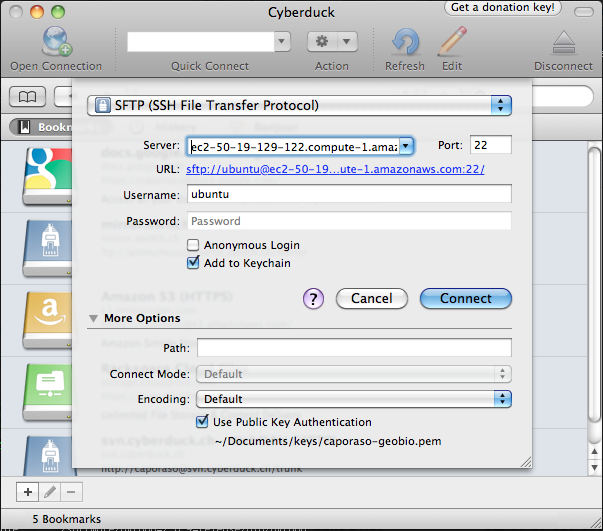
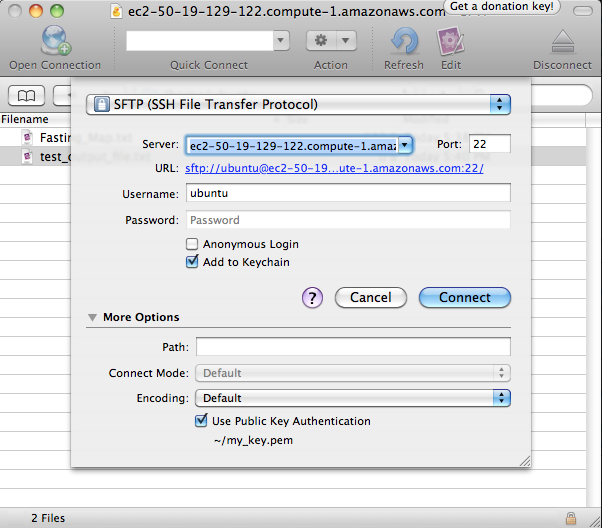
Moved the working with EC2 docs from the install page to a new tutorial as it was starting to get long.

diff --git a/doc/tutorials/working_with_ec2.rst b/doc/tutorials/working_with_ec2.rst
@@ -1,0 +1,124 @@
+.. _working_with_ec2:
+
+=============================================
+Working with QIIME on Amazon Web Services EC2
+=============================================
+
+This document covers general steps in working with QIIME on Amazon Web Services (AWS). You'll need your own AWS account to do this, and will need the AMI ID of the QIIME image that you want to run. You can find the latest QIIME AMI id on the `QIIME blog <http://blog.qiime.org>`_. These steps are also covered in the `QIIME EC2 video <http://www.youtube.com/watch?v=PEcSL_7D-jo>`_.
+
+
+Starting an EC2 instance
+========================
+
+A `tutorial on starting an EC2 instance can be found here <http://ged.msu.edu/angus/tutorials-2011/creating-an-ec2-instance.html>`_. You'll need to know the AMI ID that you want to start, and will need to have an Amazon Web Services account. The most recent QIIME AMI ID can be found on the `QIIME blog <http://blog.qiime.org>`_. Creating a Amazon Web Services account is covered in the linked tutorial.
+
+
+Connecting to your EC2 instance using ssh
+=========================================
+
+To connect to your EC2 instance with ssh you'll need your key file, the Public DNS entry for your running EC2 instance, and an ssh client. You should have created and downloaded a key file when creating your first EC2 instance. On OS X and Linux, be sure that the permissions are set to ``400`` on this file, or you won't be able to use it. If your key file is called ``/home/qiime/my_key.pem`` you can set the permissions with the command::
+
+	chmod 400 /home/qiime/my_key.pem
+
+You obtain the Public DNS entry from EC2 on a per instantiation basis - every time you Launch or Start and instance, you'll need to get this value again. See Figure 1 for where to find this information.
+
+	.. image:: ../images/public_dns_entry.png
+	   :width: 700
+	Figure 1: Identifying the Public DNS entry.
+
+If you're working on OS X or Linux, you already have an ssh client installed. If you're working on Windows, one free option is `PuTTY <http://www.chiark.greenend.org.uk/~sgtatham/putty/>`_. 
+
+To connect to your running EC2 instance using ssh from Linux or OS X you'll use a command like the following::
+
+	ssh -i PATH_TO_KEY ubuntu@PUBLIC_DNS_ENTRY
+	
+For example::
+
+	ssh -i  ~/my_key.pem ubuntu@ec2-50-19-129-122.compute-1.amazonaws.com
+
+
+
+Go `here for instructions on using PuTTY to connect to your running EC2 instance <http://ged.msu.edu/angus/tutorials-2011/logging-into-ec2-windows.html>`_.
+
+Getting data into and out of your QIIME EC2 instance
+====================================================
+
+After you've launched your EC2 instance you'll likely want to get data into it. After completing your analysis, you'll then want to get your data out. It's a good idea to pull your important data back out of your EC2 instance as soon as possible to avoid any issues with losing data if any Amazon systems go down, or if you accidentally terminate your instance. 
+
+You can get data into and out of your running EC2 instance with a graphical tool or via the command line. Which ever you find more convenient. Command line tools such as scp and sftp work fine for this. A good, free graphical tool for Windows and OS X is `Cyberduck <http://cyberduck.ch/>`_ -- this supports interacting with S3 buckets as well as EC2 instances (via sftp).
+
+Working with command line tools
+-------------------------------
+The primary tool for moving data into and out of your EC2 instance is ``scp``.
+
+To copy data into your EC2 instance you'll need to know that path to your key file, and the Public DNS entry for your EC2 instance (see Figure 1 for where to find the public DNS entry). 
+
+Your ``scp`` command will look like the following to transfer data into your EC2 instance::
+
+	scp -i PATH_TO_KEY PATH_TO_SOURCE_FILE ubuntu@PUBLIC_DNS_ENTRY:PATH_TO_DESTINATION_FILE
+
+To transfer a file out of your EC2 instance, your command will look like this::
+
+	scp -i PATH_TO_KEY ubuntu@PUBLIC_DNS_ENTRY:PATH_TO_SOURCE_FILE PATH_TO_DESTINATION_FILE
+
+Examples of each are::
+
+	scp -i  ~/my_key.pem ubuntu@ec2-50-19-129-122.compute-1.amazonaws.com:~/Fasting_Map.txt ~/code/Qiime/qiime_tutorial/Fasting_Map.txt
+	scp -i  ~/my_key.pem ~/code/Qiime/qiime_tutorial/Fasting_Map.txt ubuntu@ec2-50-19-129-122.compute-1.amazonaws.com:~/
+
+
+Working with Cyberduck
+----------------------
+
+ 1. Download and install `Cyberduck <http://cyberduck.ch/>`_. Installing should be straight-forward on OS X and Windows. 
+
+ 2. Launch Cyberduck by using your normal procedure for launching programs. You should see the Cyberduck window open. A new window or sheet will open. 
+
+ 3. To open a connection to your EC2 instance, click the 'Open Connection' icon on the top-left. Choose "SFTP (SSH File Transfer Protocol)" in the dropdown box (not Amazon Simple Storage Service!). In the ``Server`` field, enter the text from the ``Public DNS`` field associated with this instance (see Figure 1 for where to find this information). In the ``Username`` field enter ``ubuntu`` (exactly as written here). Do not enter a password. Expand the ``More Options`` section in the bottom of this window, and click the ``Use Public Key Authentication``. A dialog will open - navigate to where you've stored your key and select the key that is associated with this instance. After filling in the field, the window should look like that in Figure 2. Click ``Connect``.
+
+
+	.. image:: ../images/cyberduck_open_connection.png
+	Figure 2: Initiating a new connection.
+
+ 4. After connecting, you'll see a file browser on the remote system (Figure 3). If you've just created this instance you won't see any files listed (because you haven't put anything there yet). You can drag-and-drop files from your local system to your EC2 instance now (Figure 4). Those files will now be visible on the EC2 instance (Figure 5).
+
+	.. image:: ../images/cyberduck_opened_connection.png
+	Figure 3. Remote file browser.
+
+	.. image:: ../images/cyberduck_drag_and_drop_input_file.png
+	   :width: 700
+	Figure 4. Drag and drop a local file to the EC2 instance.
+
+	.. image:: ../images/cyberduck_view_file.png
+	Figure 5. Transferred file is visible on the EC2 instance.
+
+ 5. When you run commands on the remote system, new output files and directories will be created (Figure 6). To drag those back to your local system, first switch to the Cyberduck window and hit the refresh icon. You should then see the newly created files, and you can drag and drop them back to your local system (Figure 7).
+
+	.. image:: ../images/cyberduck_create_output_file.png
+	Figure 6. Create an output file on the EC2 instance.
+
+	.. image:: ../images/cyberduck_drag_and_drop_output_file.png
+	   :width: 700
+	Figure 7. Transfer file from the EC2 instance to the local system.
+
+
+Get help with Cyberduck `here <http://trac.cyberduck.ch/wiki/help/en>`_.
+
+
+Other options for getting data in and out of EC2 instances
+----------------------------------------------------------
+Other options for getting data into and out of your EC2 instance include installing `Dropbox <http://www.dropbox.com>`_ in your instance, and then putting files in your Dropbox folders on your local system and the EC2 instance; or using the ``wget`` command to pull data from URLs. An example of the latter might look like the following::
+
+	wget http://greengenes.lbl.gov/Download/Sequence_Data/Fasta_data_files/Caporaso_Reference_OTUs/gg_otus_4feb2011.tgz
+
+This will download the ``gg_otus_4feb2011.tgz`` file (the Greengenes reference OTUs) to your EC2 instance. You can find details on `wget here <http://www.gnu.org/software/wget/>`_.
+
+Stopping your EC2 instances
+===========================
+As long as your EC2 instances are running, you're paying for them by the hour. When you're temporarily done using your EC2 instance, you can stop it from the AWS Management Console by selecting the instance and choosing ``Instance Actions`` > ``Stop`` (see Figure 8). Note that you still pay a very small storage fee for stopped instances, so if you're permanently done with an instance you probably want to terminate it. You can restart a stopped EC2 instance by selecting that instance and choosing ``Instance Actions`` > ``Start``.
+
+	.. image:: ../images/stop_instance.png
+	   :width: 700
+	Figure 8. Stopping or pausing an EC2 instance.
+
+If you're permanently done with an EC2 instance, you can terminate it by selecting the instance and choosing ``Instance Actions`` > ``Terminate``. Once you've terminated an instance you can never get it back: all data in that instance, as well as any configuration changes you've made, etc, is lost forever, so be sure this is what you want to do.

diff --git a/doc/install/vm_ec2.rst b/doc/install/vm_ec2.rst
@@ -20,83 +20,6 @@ A video providing detailed instructions on booting and working with the QIIME EC
 
 A very nice tutorial on getting started with EC2 can be found `here <http://ged.msu.edu/angus/tutorials-2011/day1.html>`_. (Note that this is not maintained by the QIIME development group.)
 
-Getting data into and out of your QIIME EC2 instance
-====================================================
-
-After you've launched your EC2 instance you'll likely want to get data into it. After completing your analysis, you'll then want to get your data out. It's a good idea to pull your important data back out of your EC2 instance as soon as possible to avoid any issues with losing data if any Amazon systems go down, or if you accidentally terminate your instance. 
-
-You can get data into and out of your running EC2 instance with a graphical tool or via the command line. Which ever you find more convenient. Command line tools such as scp and sftp work fine for this. A good, free graphical tool for Windows and OS X is `Cyberduck <http://cyberduck.ch/>`_ -- this supports interacting with S3 buckets as well as EC2 instances (via sftp).
-
-Working with command line tools
--------------------------------
-The primary tool for moving data into and out of your EC2 instance is ``scp``.
-
-To copy data into your EC2 instance you'll need to know that path to your key file, and the Public DNS entry for your EC2 instance (see Figure 1 for where to find the public DNS entry). 
-
-	.. image:: ../images/public_dns_entry.png
-	   :width: 700
-	Figure 1: Identifying the Public DNS entry.
-
-Your ``scp`` command will look like the following to transfer data into your EC2 instance::
-
-	scp -i PATH_TO_KEY PATH_TO_SOURCE_FILE ubuntu@PUBLIC_DNS_ENTRY:PATH_TO_DESTINATION_FILE
-
-To transfer a file out of your EC2 instance, your command will look like this::
-
-	scp -i PATH_TO_KEY ubuntu@PUBLIC_DNS_ENTRY:PATH_TO_SOURCE_FILE PATH_TO_DESTINATION_FILE
-
-Examples of each are::
-
-	scp -i ~/Documents/keys/caporaso-geobio.pem ubuntu@ec2-50-19-129-122.compute-1.amazonaws.com:~/Fasting_Map.txt ~/code/Qiime/qiime_tutorial/Fasting_Map.txt
-	scp -i ~/Documents/keys/caporaso-geobio.pem ~/code/Qiime/qiime_tutorial/Fasting_Map.txt ubuntu@ec2-50-19-129-122.compute-1.amazonaws.com:~/
-
-
-Working with Cyberduck
-----------------------
-
- 1. Download and install `Cyberduck <http://cyberduck.ch/>`_. Installing should be straight-forward on OS X and Windows. 
-
- 2. Launch Cyberduck by using your normal procedure for launching programs. You should see the Cyberduck window open. A new window or sheet will open. 
-
- 3. To open a connection to your EC2 instance, click the 'Open Connection' icon on the top-left. Choose "SFTP (SSH File Transfer Protocol)" in the dropdown box (not Amazon Simple Storage Service!). In the ``Server`` field, enter the text from the ``Public DNS`` field associated with this instance (see Figure 1 for where to find this information). In the ``Username`` field enter ``ubuntu`` (exactly as written here). Do not enter a password. Expand the ``More Options`` section in the bottom of this window, and click the ``Use Public Key Authentication``. A dialog will open - navigate to where you've stored your key and select the key that is associated with this instance. After filling in the field, the window should look like that in Figure 2. Click ``Connect``.
-
-
-	.. image:: ../images/cyberduck_open_connection.png
-	Figure 2: Initiating a new connection.
-
- 4. After connecting, you'll see a file browser on the remote system (Figure 3). If you've just created this instance you won't see any files listed (because you haven't put anything there yet). You can drag-and-drop files from your local system to your EC2 instance now (Figure 4). Those files will now be visible on the EC2 instance (Figure 5).
-
-	.. image:: ../images/cyberduck_opened_connection.png
-	Figure 3. Remote file browser.
-
-	.. image:: ../images/cyberduck_drag_and_drop_input_file.png
-	   :width: 700
-	Figure 4. Drag and drop a local file to the EC2 instance.
-
-	.. image:: ../images/cyberduck_view_file.png
-	Figure 5. Transferred file is visible on the EC2 instance.
-
- 5. When you run commands on the remote system, new output files and directories will be created (Figure 6). To drag those back to your local system, first switch to the Cyberduck window and hit the refresh icon. You should then see the newly created files, and you can drag and drop them back to your local system (Figure 7).
-
-	.. image:: ../images/cyberduck_create_output_file.png
-	Figure 6. Create an output file on the EC2 instance.
-
-	.. image:: ../images/cyberduck_drag_and_drop_output_file.png
-	   :width: 700
-	Figure 7. Transfer file from the EC2 instance to the local system.
-
-
-Get help with Cyberduck `here <http://trac.cyberduck.ch/wiki/help/en>`_.
-
-
-Other options for getting data in and out of EC2 instances
-----------------------------------------------------------
-Other options for getting data into and out of your EC2 instance include installing `Dropbox <http://www.dropbox.com>`_ in your instance, and then putting files in your Dropbox folders on your local system and the EC2 instance; or using the ``wget`` command to pull data from URLs. An example of the latter might look like the following::
-
-	wget http://greengenes.lbl.gov/Download/Sequence_Data/Fasta_data_files/Caporaso_Reference_OTUs/gg_otus_4feb2011.tgz
-
-This will download the ``gg_otus_4feb2011.tgz`` file (the Greengenes reference OTUs) to your EC2 instance. You can find details on `wget here <http://www.gnu.org/software/wget/>`_.
-
 Acknowledgements
 ================
 We'd like to acknowledge the support of AWS: the QIIME EC2 image was developed using an AWS in Education (for Researchers) grant of compute resource time. 
